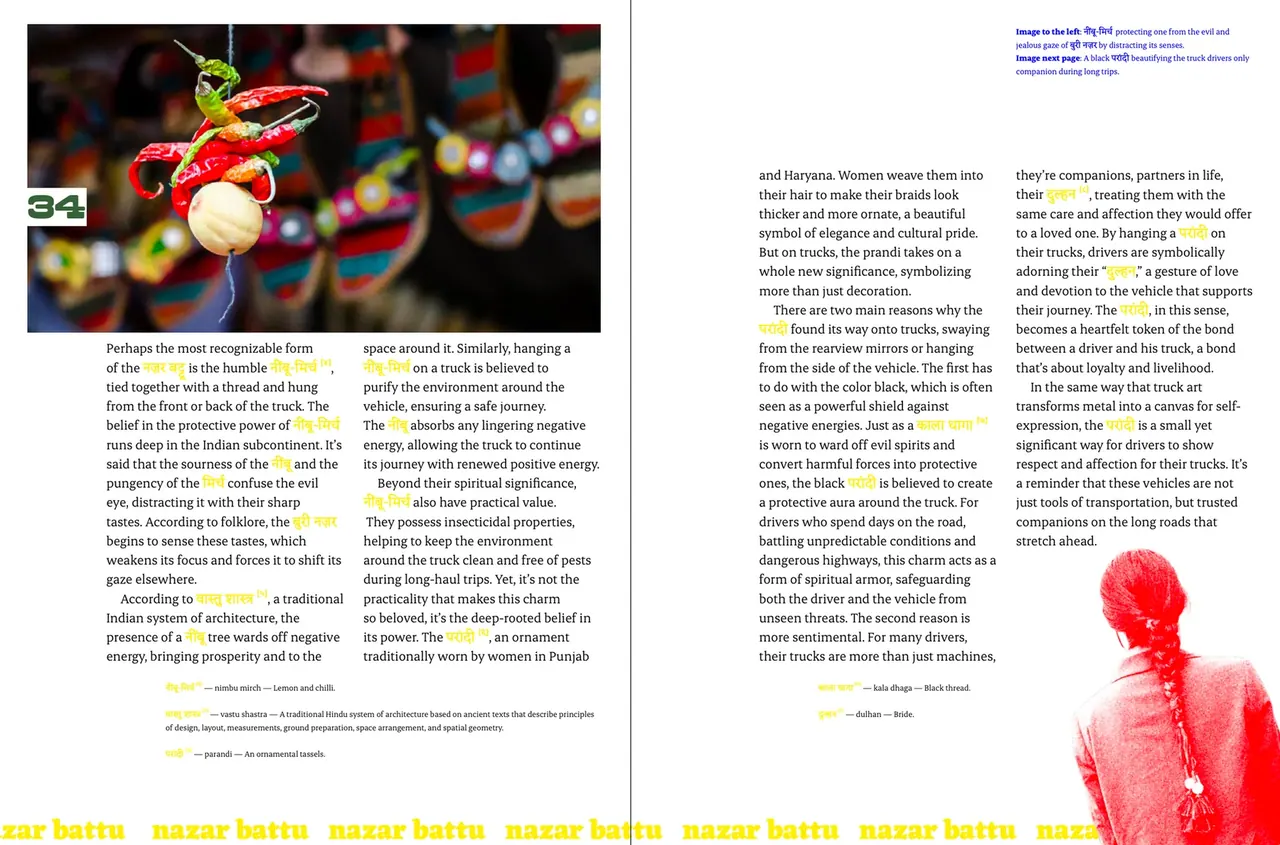
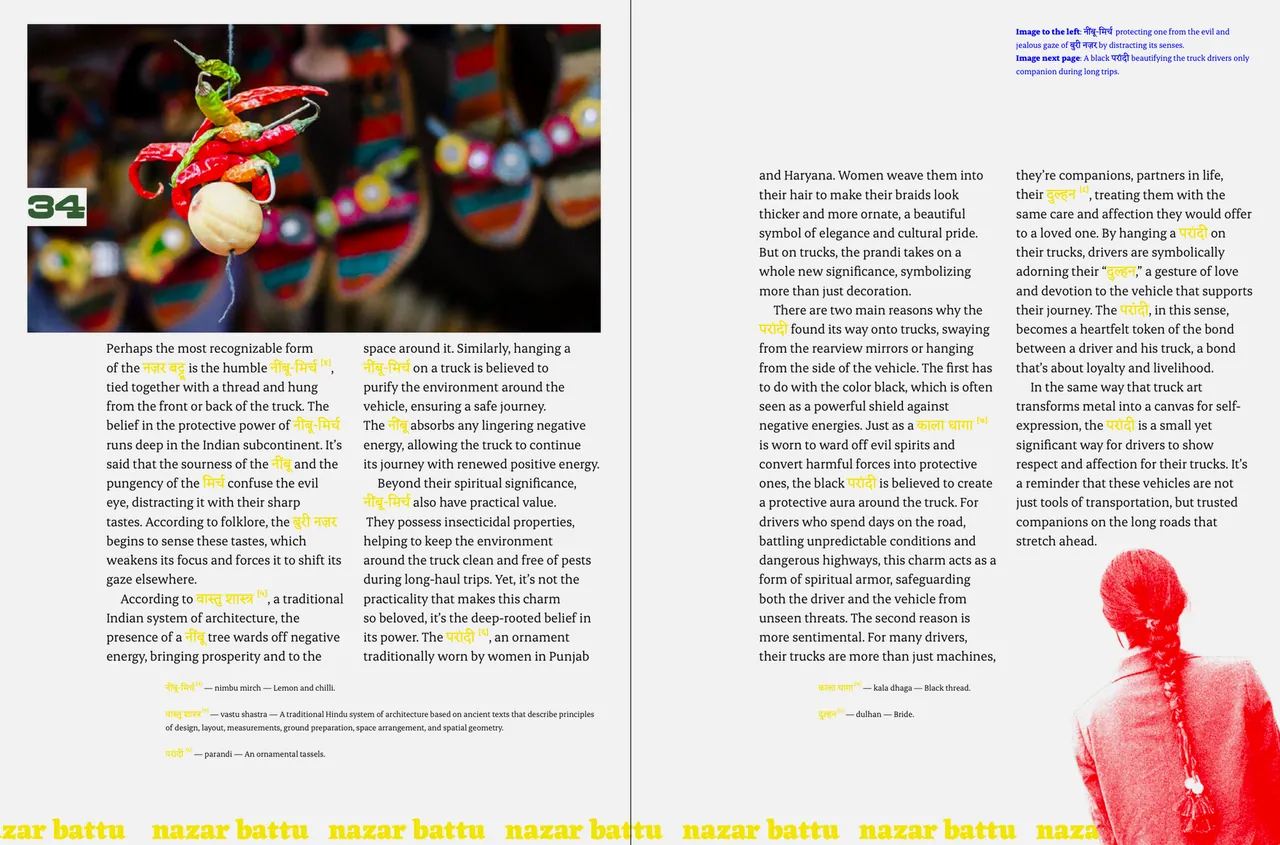
Dekho: remove the proof photo; nazar battu spread 5% darker
Claude-Session: https://claude.ai/code/session_0161AuWVenL6r6kMDpegBg2X

Changed region(s): [[0.7188, 0.4923, 0.75, 0.5231], [0.6562, 0.5538, 0.6875, 0.5846]]

diff --git a/public/dekho.html b/public/dekho.html
@@ -36,8 +36,8 @@
 <a class="wm-link" href="index.html" aria-label="Home"></a>
 <main>
 <div class="title-gap"></div><h1 class="big ptitle">Dekho Magar Pyaar Se</h1><hr class="rule">
-<section class="psec"><div class="ptext"><p>An homage to Indian trucks and truck drivers, as these trucks were my introduction to typography and visual design. The book delves into the creation and history of truck art, the lives of truck drivers, and the connection between the drivers and the art across India.</p></div><div class="pmedia"><div class="duo"><img fetchpriority="high" class="" style="flex:0.7500 1 0%" src="media/dekho/dekho-magar-pyaar-se.webp" srcset="media/dekho/dekho-magar-pyaar-se-t.webp 560w, media/dekho/dekho-magar-pyaar-se-m.webp 1280w, media/dekho/dekho-magar-pyaar-se.webp 1500w" sizes="(max-width: 720px) 33vw, 22vw" width="1500" height="2000" alt="" decoding="async"><img fetchpriority="high" class="" style="flex:1.5152 1 0%" src="media/dekho/jan-21-screenshot-from-avi-sahni.webp" srcset="media/dekho/jan-21-screenshot-from-avi-sahni-t.webp 560w, media/dekho/jan-21-screenshot-from-avi-sahni-m.webp 1280w, media/dekho/jan-21-screenshot-from-avi-sahni.webp 1800w" sizes="(max-width: 720px) 67vw, 43vw" width="1800" height="1188" alt="" decoding="async"></div></div></section>
-<div class="duo"><img class="" style="flex:1.5385 1 0%" src="media/dekho/jan-21-screenshot-from-avi-sahni-1.webp" srcset="media/dekho/jan-21-screenshot-from-avi-sahni-1-t.webp 560w, media/dekho/jan-21-screenshot-from-avi-sahni-1-m.webp 1280w, media/dekho/jan-21-screenshot-from-avi-sahni-1.webp 1800w" sizes="(max-width: 720px) 50vw, 32vw" width="1800" height="1170" alt="" decoding="async"><img class="" style="flex:1.5531 1 0%" src="media/dekho/jan-21-screenshot-from-avi-sahni-2.webp" srcset="media/dekho/jan-21-screenshot-from-avi-sahni-2-t.webp 560w, media/dekho/jan-21-screenshot-from-avi-sahni-2-m.webp 1280w, media/dekho/jan-21-screenshot-from-avi-sahni-2.webp 1800w" sizes="(max-width: 720px) 50vw, 33vw" width="1800" height="1159" alt="" decoding="async"></div>
+<section class="psec"><div class="ptext"><p>An homage to Indian trucks and truck drivers, as these trucks were my introduction to typography and visual design. The book delves into the creation and history of truck art, the lives of truck drivers, and the connection between the drivers and the art across India.</p></div><div class="pmedia"><div class="full"><img fetchpriority="high" class="" src="media/dekho/jan-21-screenshot-from-avi-sahni.webp" srcset="media/dekho/jan-21-screenshot-from-avi-sahni-t.webp 560w, media/dekho/jan-21-screenshot-from-avi-sahni-m.webp 1280w, media/dekho/jan-21-screenshot-from-avi-sahni.webp 1800w" sizes="(max-width: 720px) 100vw, 65vw" width="1800" height="1188" alt="" decoding="async"></div></div></section>
+<div class="duo"><img fetchpriority="high" class="" style="flex:1.5385 1 0%" src="media/dekho/jan-21-screenshot-from-avi-sahni-1.webp" srcset="media/dekho/jan-21-screenshot-from-avi-sahni-1-t.webp 560w, media/dekho/jan-21-screenshot-from-avi-sahni-1-m.webp 1280w, media/dekho/jan-21-screenshot-from-avi-sahni-1.webp 1800w" sizes="(max-width: 720px) 50vw, 32vw" width="1800" height="1170" alt="" decoding="async"><img class="" style="flex:1.5531 1 0%" src="media/dekho/jan-21-screenshot-from-avi-sahni-2.webp" srcset="media/dekho/jan-21-screenshot-from-avi-sahni-2-t.webp 560w, media/dekho/jan-21-screenshot-from-avi-sahni-2-m.webp 1280w, media/dekho/jan-21-screenshot-from-avi-sahni-2.webp 1800w" sizes="(max-width: 720px) 50vw, 33vw" width="1800" height="1159" alt="" decoding="async"></div>
 <div class="full"><img class="" src="media/cargo/aviportfoliogx-img-1739.webp" srcset="media/cargo/aviportfoliogx-img-1739-t.webp 560w, media/cargo/aviportfoliogx-img-1739-m.webp 1280w, media/cargo/aviportfoliogx-img-1739.webp 1800w" sizes="(max-width: 720px) 100vw, 65vw" width="1800" height="1200" alt="" decoding="async"></div>
 <div class="duo"><img class="" style="flex:1.4988 1 0%" src="media/dekho/215a0102.webp" srcset="media/dekho/215a0102-t.webp 560w, media/dekho/215a0102-m.webp 1280w, media/dekho/215a0102.webp 1800w" sizes="(max-width: 720px) 50vw, 32vw" width="1800" height="1201" alt="" decoding="async"><img class="" style="flex:1.4988 1 0%" src="media/dekho/215a0120.webp" srcset="media/dekho/215a0120-t.webp 560w, media/dekho/215a0120-m.webp 1280w, media/dekho/215a0120.webp 1800w" sizes="(max-width: 720px) 50vw, 32vw" width="1800" height="1201" alt="" decoding="async"></div>
 <div class="full"><img class="" src="media/dekho/10-copy-2.webp" srcset="media/dekho/10-copy-2-t.webp 560w, media/dekho/10-copy-2-m.webp 1280w, media/dekho/10-copy-2.webp 1800w" sizes="(max-width: 720px) 100vw, 65vw" width="1800" height="1181" alt="" decoding="async"></div>

diff --git a/tools/build.py b/tools/build.py
@@ -523,7 +523,7 @@ DEKHO_SLIDES = ["dekho-215a0010", "dekho-215a0012", "dekho-215a0020", "dekho-215
 PAGES["dekho"] = dict(title="Dekho Magar Pyaar Se", tags="Publication, Posters, Motion", body=lambda: "\n".join([
     # process photos first, then the rows of the original Cargo page
     sec("", next(x for x in HOME if x["slug"] == "dekho")["lead"],
-        duo(["dekho-dekho-magar-pyaar-se", "dekho-jan-21-screenshot-from-avi-sahni"])),
+        full("dekho-jan-21-screenshot-from-avi-sahni")),
     duo(["dekho-jan-21-screenshot-from-avi-sahni-1", "dekho-jan-21-screenshot-from-avi-sahni-2"]),
     full("aviportfoliogx-img-1739"),
     duo(["dekho-215a0102", "dekho-215a0120"]),
